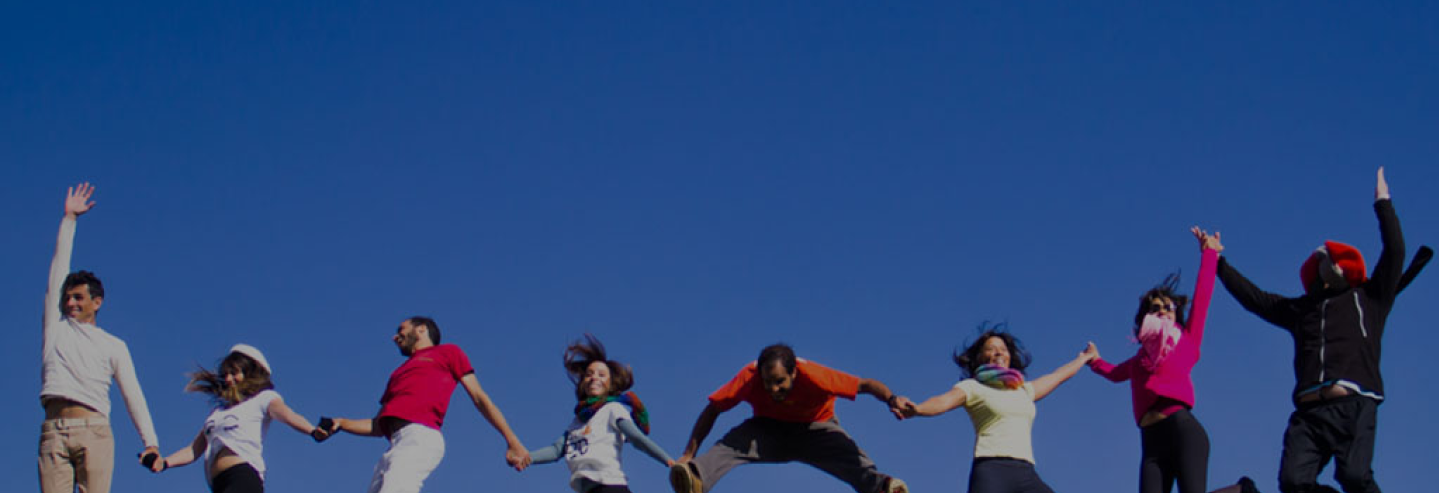
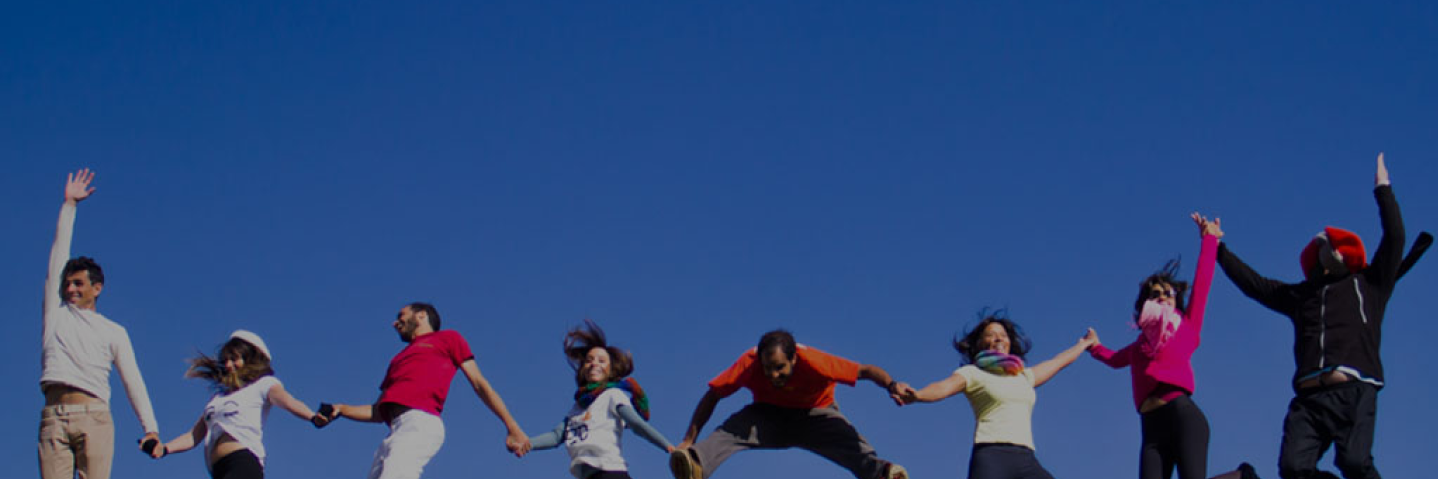
Importa todos css para style e refatoracao do codigo

diff --git a/public/css/quem-somos.css b/public/css/quem-somos.css
@@ -2,26 +2,8 @@ body .main-quem-somos {
     color: white;
 }
 
-.main-quem-somos button {
-    color: white;
-}
-
-.main-quem-somos p {
-    margin: 0;
-}
-
-.main-quem-somos h3 {
-    margin: 0px
-}
-
 .main-quem-somos .section-title {
     width: 30%;
-}
-
-.main-quem-somos .img-top {
-    width: 100%;
-    background-repeat: no-repeat;
-    background-size: cover;
 }
 
 .main-quem-somos .institutional h1 {
@@ -35,7 +17,7 @@ body .main-quem-somos {
 .main-quem-somos .institutional .one {
     margin-top: 0%;
     background-image: url(../img/quem-somos/quem-somos-principal.png);
-    height: 493px;
+    height: 450px;
     display: flex;
     flex-direction: column;
     align-items: center;

diff --git a/public/css/style.css b/public/css/style.css
@@ -1,4 +1,17 @@
 @import url("titlePage.css");
+@import url("button.css");
+@import url("cadastro.cs");
+@import url("cadastro-form.css");
+@import url("cursos.css");
+@import url("footer.css");
+@import url("index.css");
+@import url("nav-bar.css");
+@import url("news-general.css");
+@import url("quem-somos.css");
+@import url("style-news.css");
+@import url("style-reset.css");
+
+
 body {
     font-family: 'Roboto', sans-serif;
     font-family: 'Raleway', sans-serif;
@@ -7,6 +20,12 @@ body {
 
 p {
     line-height: 30px;
+    margin: 0;
+}
+
+.background-img-config{
+    background-size: cover;
+    background-repeat: no-repeat;
 }
 
 .section-title {

diff --git a/public/css/index.css b/public/css/index.css
@@ -8,11 +8,10 @@
     background: url("../img/principal.jpg");
     background-repeat: no-repeat;
     background-size: cover;
-    height: 554.9px;
+    height: 500px;
     display: flex;
     justify-content: center;
     align-items: center;
-    margin: 0;
 }
 
 .main-index .principal-title {
